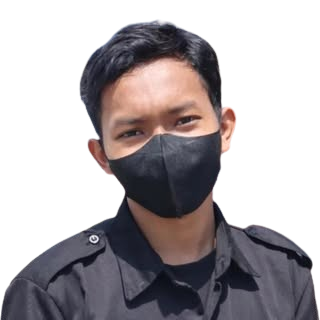
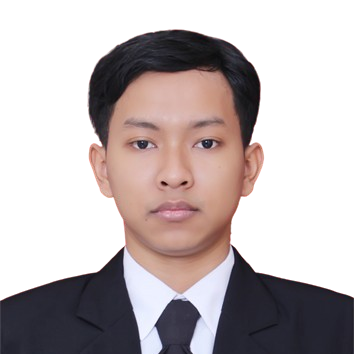
lagi commit

diff --git a/src/app/page.js b/src/app/page.js
@@ -138,9 +138,10 @@ export default function Home() {
 
               <div className={`transition-all duration-500 ${theme === "dark" ? "text-gray-400" : "text-gray-500"}`}>
                 <p className="text-sm sm:text-base md:text-lg leading-relaxed font-medium">
-                  Saya memiliki ketertarikan mendalam terhadap perancangan dan pengembangan sistem berbasis web. Saya senang memahami
-                  bagaimana sebuah website bekerja mulai dari alur sistem hingga pengalaman interaksi pengguna. Dalam pengembangan, saya sering menggunakan React.js untuk frontend dan Laravel untuk
-                  backend. Saya menikmati proses menerjemahkan kebutuhan pengguna menjadi sistem yang fungsional dan efisien. Selain itu, saya memiliki ketertarikan terhadap visual dari pengalaman di bidang saya fotografi dan videografi. 
+Lulusan D3 Teknik Informatika Universitas Sebelas Maret (IPK 3.81) dengan fokus dan ketertarikan mendalam pada
+pengembangan perangkat lunak serta ekosistem bisnis digital. Berpengalaman dalam proyek magang dan freelance yang
+memperkuat keahlian praktis sebagai Full Stack Developer, Front End Developer, dan System Analyst. Saya adalah
+seorang problem solver yang dedikatif dalam menciptakan solusi teknologi yang efisien, inovatif, dan berdampak.
                   Saya dapat bekerja baik secara individu maupun dalam tim, serta{" "}
                   <span className={`font-bold transition-all duration-500 ${theme === "dark" ? "text-blue-400" : "text-blue-600"}`}>
                     terbuka untuk mempelajari berbagai teknologi baru.
